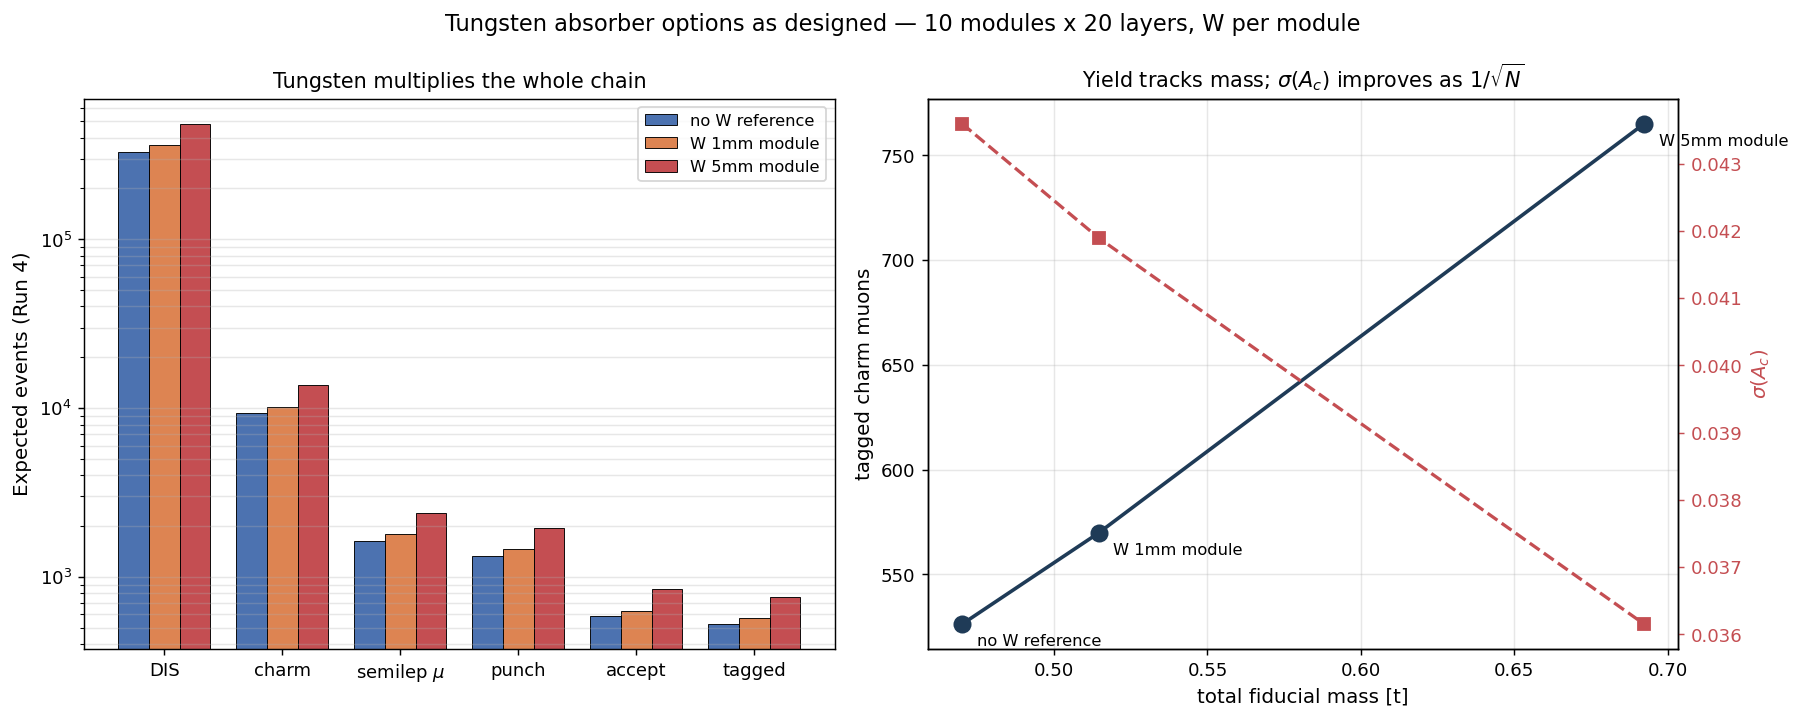
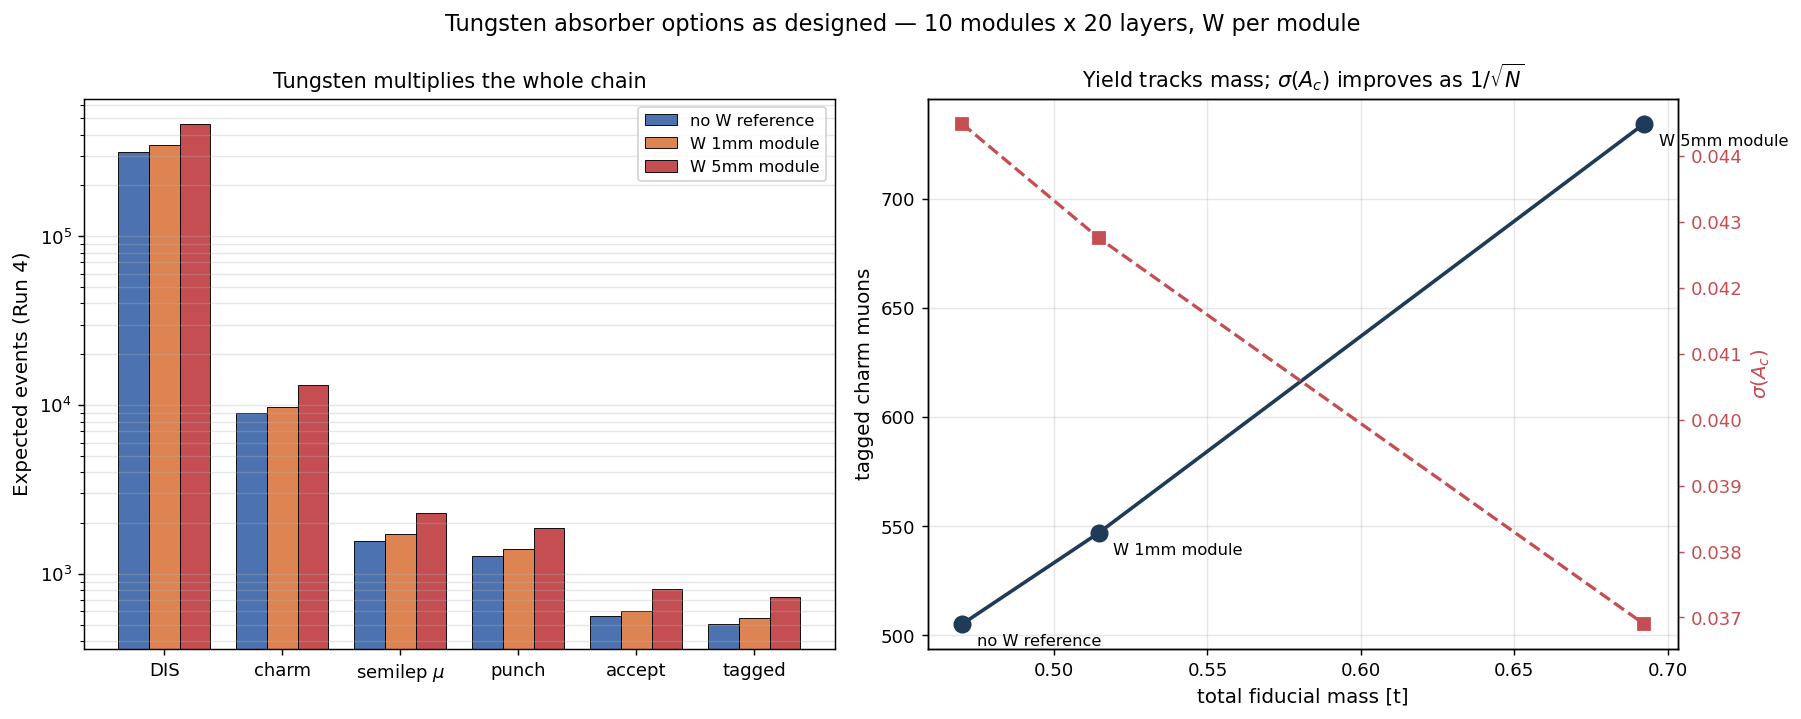
Resolve the off-axis position: FASERCal sits in the quieter lobe
The detector is on the left of the LoS looking downstream from the production
point. In the standard right-handed frame (+z downstream, +y up) a viewer
looking along +z has right_hat = -x_hat, so LEFT = +x: the designed shift is
(+452, +236) mm.

The FLUKA map over the 480x480 mm 3DCAL face at that point gives F_flux = 0.96,
<p_mu> = 985 GeV, mu+ fraction 0.25 -- essentially the on-axis value. The mirror
position (-452, +236) would have given F = 2.02 with a harder, mu+-enriched
beam; that is the lobe FASERCal does NOT sit in. So the factor-2 ambiguity
resolves onto the conservative branch.

Nominal becomes 549 tagged, sigma(A_c) = 0.043 at eff 0.9 (1 mm W/module).

Residual assumption recorded: that the FLUKA ntuple's truth_prod_x uses the same
right-handed convention. If its x axis were signed oppositely, F_flux would be
2.02 and every yield would rise by 2.1 -- one line to confirm.

diff --git a/python/fasercal_chain.py b/python/fasercal_chain.py
@@ -93,30 +93,36 @@ M_REF_T = 25.0 * 30.0 * 50.0 * 19.30 / 1.0e6     # = 0.724 t
 # So going off-axis can INCREASE the muon-DIS yield.  A plausible working range
 # is ~0.3 (shielded/vertical) to ~10 (horizontal, beam-pipe side).
 #
-# MEASURED from the FASER FLUKA simulation by python/fluka_offaxis_map.py
-# (source: /eos/experiment/fasernu-data0/faser/sim/mc22/fluka/210007/bck/s0010-r0019).
-# F_flux for a FASERnu-sized window centred at (x0,y0) cm, relative to on-axis:
+# RESOLVED.  The detector sits on the LEFT of the LoS looking downstream from
+# the production point (user, 2026-08).  In the standard right-handed frame
+# (+z downstream, +y up, x_hat x y_hat = z_hat) a viewer looking along +z with
+# +y up has right_hat = -x_hat, so LEFT = +x.  The designed shift is therefore
+# (+452, +236) mm, and the FLUKA map (python/fluka_offaxis_map.py, source
+# /eos/experiment/fasernu-data0/faser/sim/mc22/fluka/210007/bck/s0010-r0019)
+# evaluated over the 480x480 mm 3DCAL face at that point gives
 #
+#     F_flux = 0.96 ,  <p_mu> = 985 GeV ,  mu+ fraction = 0.25
+#
+# i.e. essentially the SAME flux as on-axis -- the conservative branch.  (The
+# mirror position (-452,+236) would have given F = 2.02 with a mu+-enriched,
+# harder beam; that is the lobe the detector does NOT sit in.)
+#
+# Remaining assumption: that the FLUKA ntuple's truth_prod_x uses the same
+# right-handed FASER/ATLAS convention.  If its x axis were defined with the
+# opposite sign, F_flux would be 2.02 instead of 0.96 -- a factor 2.1 on every
+# absolute yield.  One line to confirm.
+#
+# Full transverse map, F_flux for a FASERnu-sized window at (x0,y0) cm:
 #        y0=0    y0=+50  y0=+100        <p> [GeV]      mu+ fraction
 #   x0=+100  1.49   0.98    1.88          1973            0.09
-#   x0=   0  1.00   1.42    1.43           931            0.27  <- reference
+#   x0=   0  1.00   1.42    1.43           931            0.27
 #   x0= -50  1.88   2.99    1.76          1969            0.78
 #   x0=-100  3.89   4.94    2.43          2079            0.74
-#
-# Three measured features, all favourable:
-#   1. the flux RISES off-axis, up to ~4.9x at (-100,+50) cm;
-#   2. it is strongly left/right ASYMMETRIC (the -x side is 2-4x the +x side),
-#      as expected from magnetic sweeping;
-#   3. the spectrum gets HARDER off-axis (<p> 931 -> ~2000 GeV), not softer as
-#      naively expected -- and DIS/charm yields rise with E_mu, so this
-#      compounds the flux gain.
-# The mu+ fraction flips from 0.27 on-axis to ~0.75 at -x: the lobes are
-# charge-separated, which helps the dimuon tag (known beam charge).
-#
-# Caveat: modest statistics (585 raw muons in the on-axis window) and the
-# |x0|=150 cm points are at the edge of the simulated region and unreliable.
-F_FLUX = 1.0                     # 1.0 = on-axis reference window
-F_FLUX_RANGE = (1.0, 2.0, 3.9, 4.9)   # measured on-axis .. best off-axis
+# The flux RISES off-axis on the -x side (magnetic sweeping) and the lobes are
+# charge-separated; the +x side, where FASERCal sits, is close to the on-axis
+# value.
+F_FLUX = 0.96                    # measured at the designed (+452,+236) mm
+F_FLUX_RANGE = (0.96, 2.02)   # FASERCal position, and its mirror
 
 # --------------------------------------------------- detector response (toy)
 # The Run 4 TP Sec. 6.5/6.6 (spectrometer magnet, muon tracker) are empty, so

diff --git a/docs/STATUS.md b/docs/STATUS.md
@@ -24,11 +24,16 @@ as-designed geometry, on-axis-equivalent flux:
 
 Charge-tag purity **97.3 %**. Reach, by absorber option and off-axis flux:
 
-| configuration | mass | F=1.0 (+X side) | F=2.0 (−X side) |
-|---|---:|---:|---:|
-| no W (reference) | 0.470 t | σ(A_c) = 0.044 | 0.031 |
-| **1 mm W/module** | **0.514 t** | **0.042** | **0.030** |
-| 5 mm W/module | 0.692 t | 0.036 | **0.026** |
+Position **resolved**: the detector is on the **left of the LoS looking
+downstream**, i.e. the **+452 mm** side, where the FLUKA map gives
+**F_flux = 0.96** — essentially the on-axis value (the mirror lobe at −452 mm
+would have given 2.02).
+
+| configuration | mass | σ(A_c) at ε = 0.9 |
+|---|---:|---:|
+| no W (reference) | 0.470 t | 0.045 |
+| **1 mm W/module** | **0.514 t** | **0.043** |
+| 5 mm W/module | 0.692 t | 0.037 |
 
 ---
 
@@ -67,7 +72,7 @@ Charge-tag purity **97.3 %**. Reach, by absorber option and off-axis flux:
 3. **Acceptance is angular, not momentum.** Decay µ median 33 mrad vs scattered µ 4.3 mrad; 83 % already pass the momentum cut.
 4. **Tungsten helps, but modestly** — the designed 5 mm option is only ×1.34 in tagged yield over 1 mm, because the absorber is per module (see correction #8).
 5. **Charge ID is not the bottleneck** — median decay µ is 11.5 GeV, so η ≈ 3 % for any plausible magnet. The MDT/1.5 T design is comfortably sufficient.
-6. **Off-axis is not a penalty.** The flux is asymmetric about the LoS; at the designed position it is ×1.0 or ×2.0 depending on the X sign convention.
+6. **Off-axis is not a penalty, but FASERCal sits in the quieter lobe.** The flux is strongly asymmetric about the LoS (up to ×4.9 on the −x side, where it is also harder and µ⁺-enriched). The detector is on the +x side, where F_flux = 0.96 — the conservative branch.
 
 ---
 
@@ -115,7 +120,7 @@ Much shorter than before — the talk resolved most of it.
 
 | # | need | why it matters |
 |---|---|---|
-| **1** | **X sign convention**: does FASERCal's +452 mm shift correspond to +x or −x in the FLUKA ntuple (`truth_prod_x`)? | **factor 2 on every absolute yield** — the single biggest remaining lever |
+| **1** | One-line confirmation that the FLUKA ntuple's `truth_prod_x` is the standard right-handed FASER/ATLAS x (so that "left looking downstream" = +x) | if reversed, every yield ×2.1 |
 | **2** | Momentum resolution and charge-confusion vs p from the MDT/GenFit study (slides 35–38 show the machinery, not the resolved curve) | replaces the toy charge-confusion sigmoid |
 | **3** | Hadronic energy / jet resolution for **3DCAL alone** — the talk gives them for the full 3DCAL+ECAL+AHCAL+MuSpect chain (p_jet: bias 9 %, res 9 % for NC) | needed for the x-reconstruction study; if AHCAL is excluded the resolution will be worse |
 | **4** | Confirmation that muon DIS should use 3DCAL only, or 3DCAL+ECAL+AHCAL | the talk's own numbers show AHCAL has 3.3 t vs 3DCAL's 0.5 t — a **6× larger** target |
